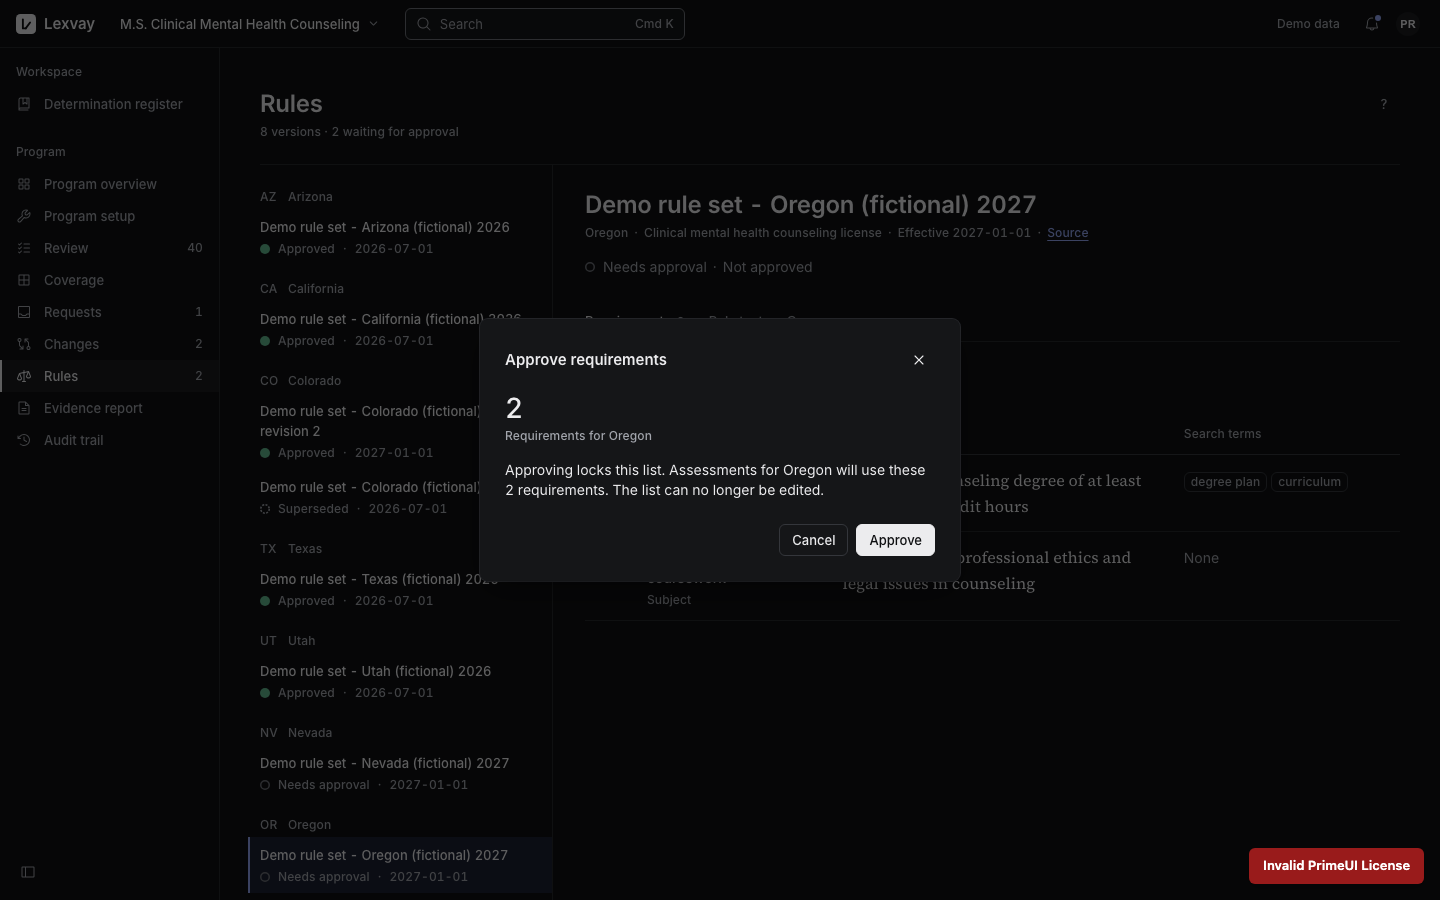
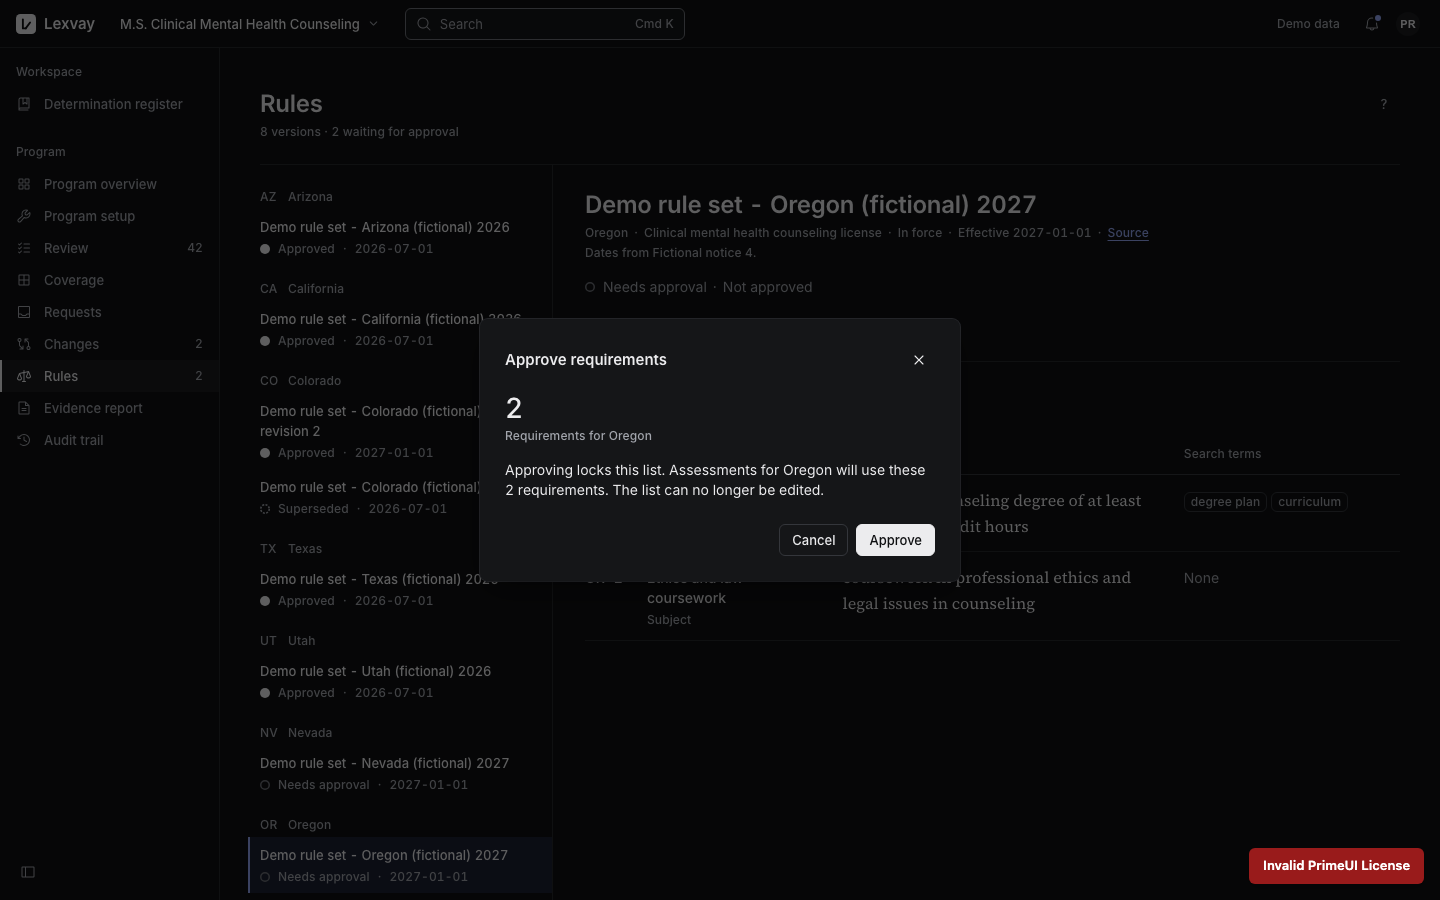
UI3-3 review round: Rules captures retaken; test results on the merged head

diff --git a/docs/progress/UI3-3.md b/docs/progress/UI3-3.md
@@ -1,9 +1,15 @@
 ## UI3-3 — Rules, Requests and Program setup in design v3
 
 Branch `ui3-rules-requests-setup`, decisions D-520 to D-529 in `docs/decisions/UI3-3.md`. Frontend only. Branched from
-`origin/main` at 8f00934 (UI3-0 folded); `origin/main` at e352ccd (FIX-8 folded) merged before the final run. The one
-conflict was Rules' version groups, which FIX-8 moved into `ProgramContext` for its opening-version guard; the screen
-now reads them from there. AC-1 and RG-1 had not merged, so no field of theirs is shown.
+`origin/main` at 8f00934 (UI3-0 folded). Merged `origin/main` three times: at e352ccd (FIX-8), whose conflict was Rules'
+version groups, which FIX-8 moved into `ProgramContext` for its opening-version guard; at 9a1b7ea (SEC-3, OPS-2b), clean;
+and at 20139d1 (RG-1, EV-1, OPS-3), whose conflicts were the Rules list, its rows and the version's header, where RG-1
+added the legal status, a nullable effective date and the dates' provenance. Both sides are kept: RG-1's fields are plain
+meta text in the v3 header (D-522). AC-1 had not merged, so no field of its is shown.
+
+Orchestrator review (accepted D-520 to D-529) asked for two changes, both made: Approved is a disc in `ink`, never the
+evidence colour (D-521, tested), and Compare lists what changed first with the unchanged requirements behind "Show 8
+unchanged" (D-525, tested end to end). The 400 px version list now shows at its full height instead of a scroll area.
 
 Shared files touched, minimally: `shared/sheet/sheet.ts` (the overlay sheet, D-526), `ui/diff-text.ts` (a quarter-em
 gap between a deletion and its replacement, D-525) and two title-row rules in `styles.css` (the title takes the room the
@@ -44,12 +50,13 @@ screen with `.lx-page-header`, including UI3-2's.
 approve; requests inbox and drawer; setup details, states, courses, documents, fact sheet, facts, readiness, assessed.
 
 ### Test results
-`LEXVAY_E2E_SLOT=5 make test` on the merged head (origin/main at e352ccd), exit 0:
-- backend: `Tests run: 1182, Failures: 0, Errors: 0, Skipped: 0`, `BUILD SUCCESS`
-- frontend unit: `Test Files 46 passed (46)`, `Tests 395 passed (395)`
-- end-to-end: `56 passed`, `7 skipped` (the screenshot tests, which run only with `LEXVAY_SCREENSHOTS=1`)
+`LEXVAY_E2E_SLOT=5 make test` on 7261a5d (origin/main at 20139d1 merged, with the review changes), exit 0:
+- backend: `Tests run: 1316, Failures: 0, Errors: 0, Skipped: 0`, `BUILD SUCCESS`
+- frontend unit: `Test Files 46 passed (46)`, `Tests 399 passed (399)`
+- end-to-end: `56 passed (6.2m)`, `7 skipped` (the screenshot tests, which run only with `LEXVAY_SCREENSHOTS=1`)
 
 Screenshots: a `LEXVAY_SCREENSHOTS=1` run of `evidence-requests`, `rules`, the UI3-3 test of `screens` and `setup` on a fresh
 slot-5 stack. A full screenshot run earlier passed 60 tests; F14's report-check screenshot test timed out in it (a
 screenshot-only test outside these screens), and because the setup project depends on it, setup's captures were taken
-in the targeted run instead.
+in the targeted run instead. After the review the `ui3-3-rules-*` captures were retaken on 7261a5d (`rules.spec.ts`
+with `LEXVAY_SCREENSHOTS=1`).
